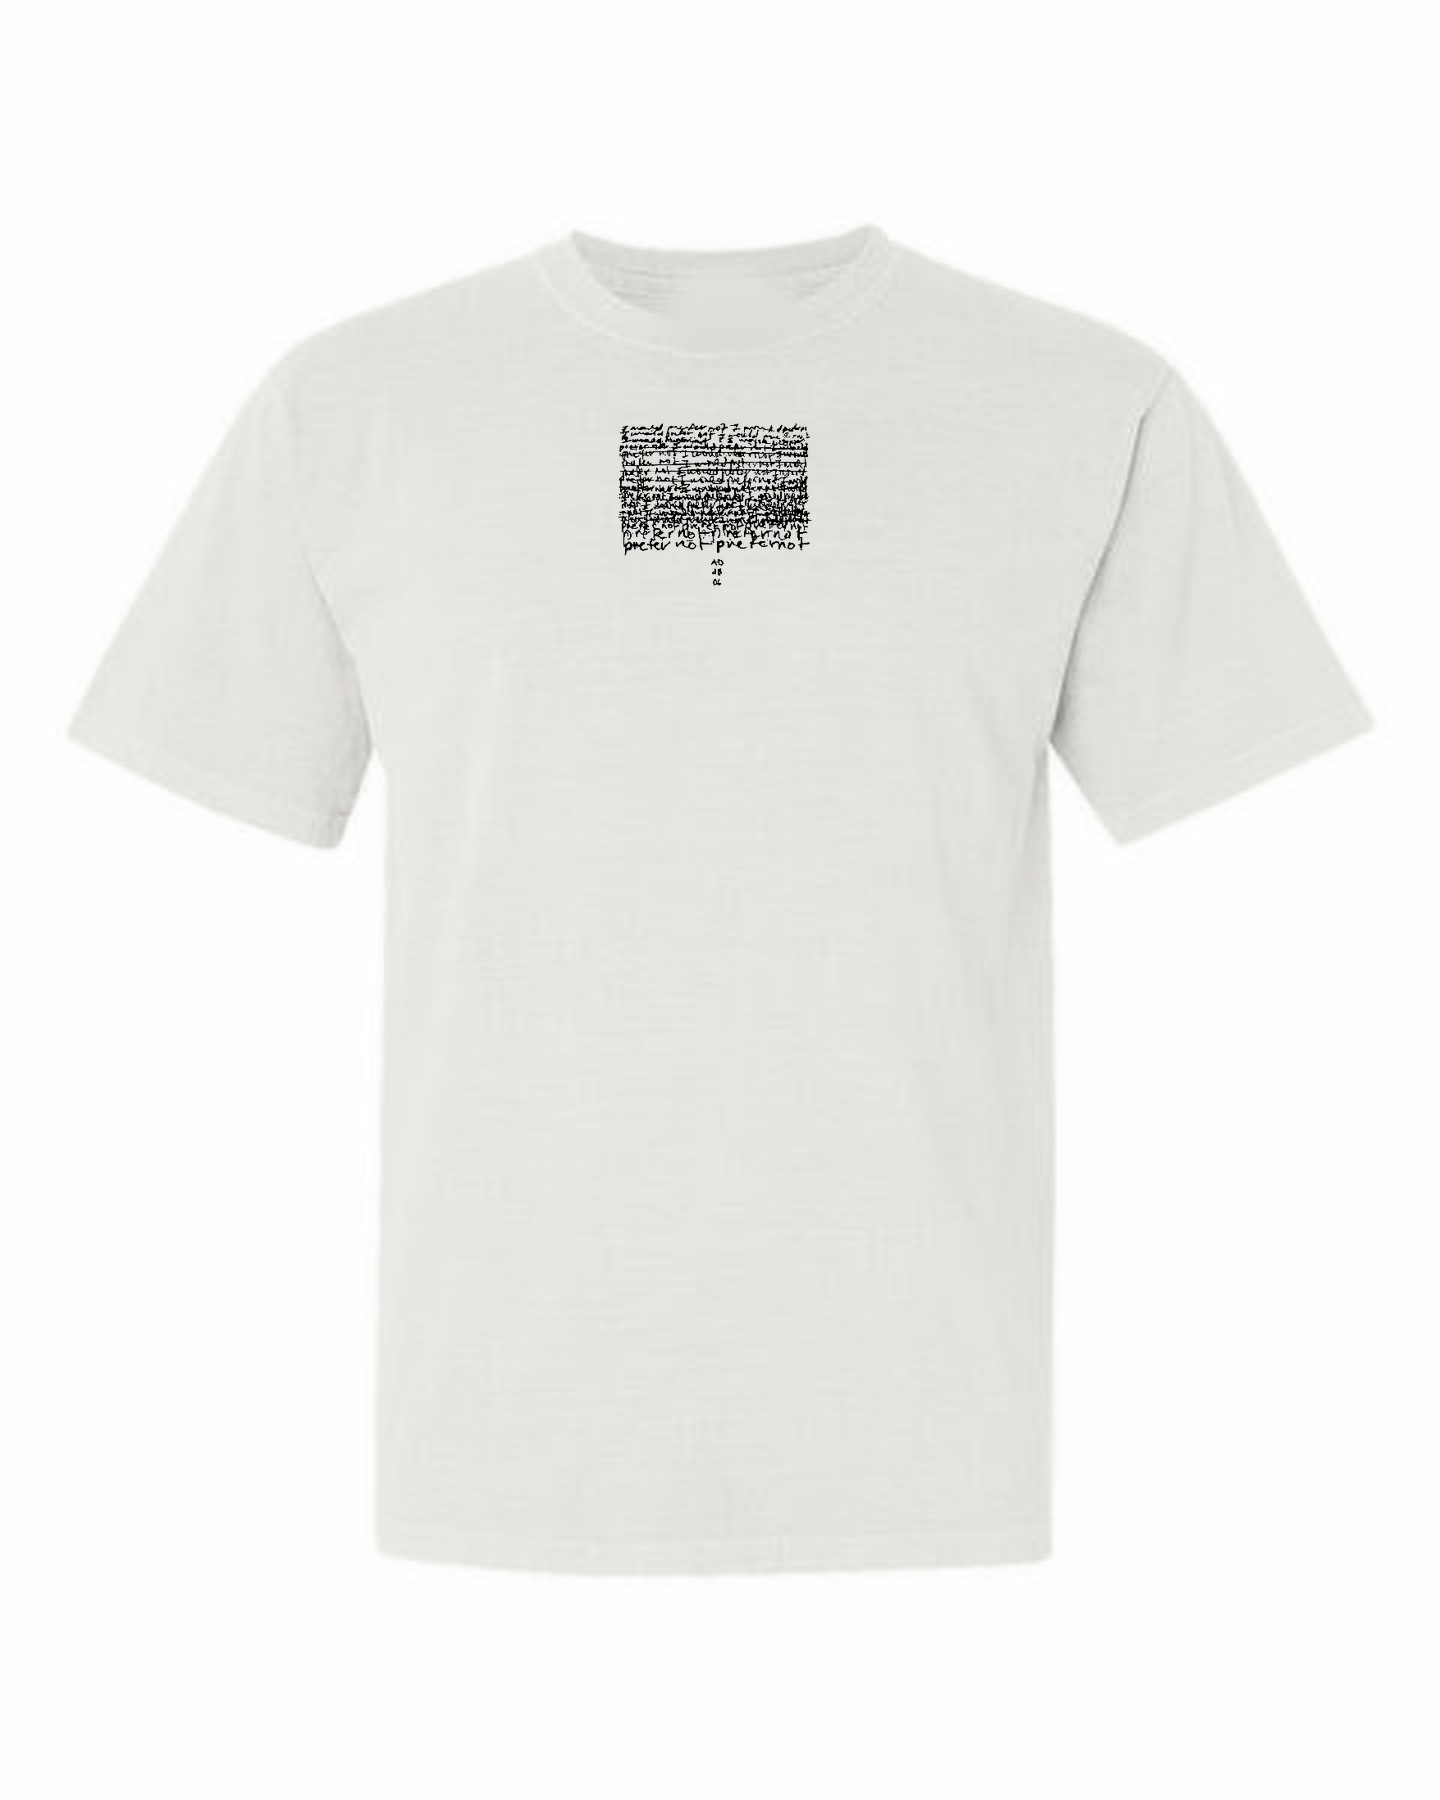
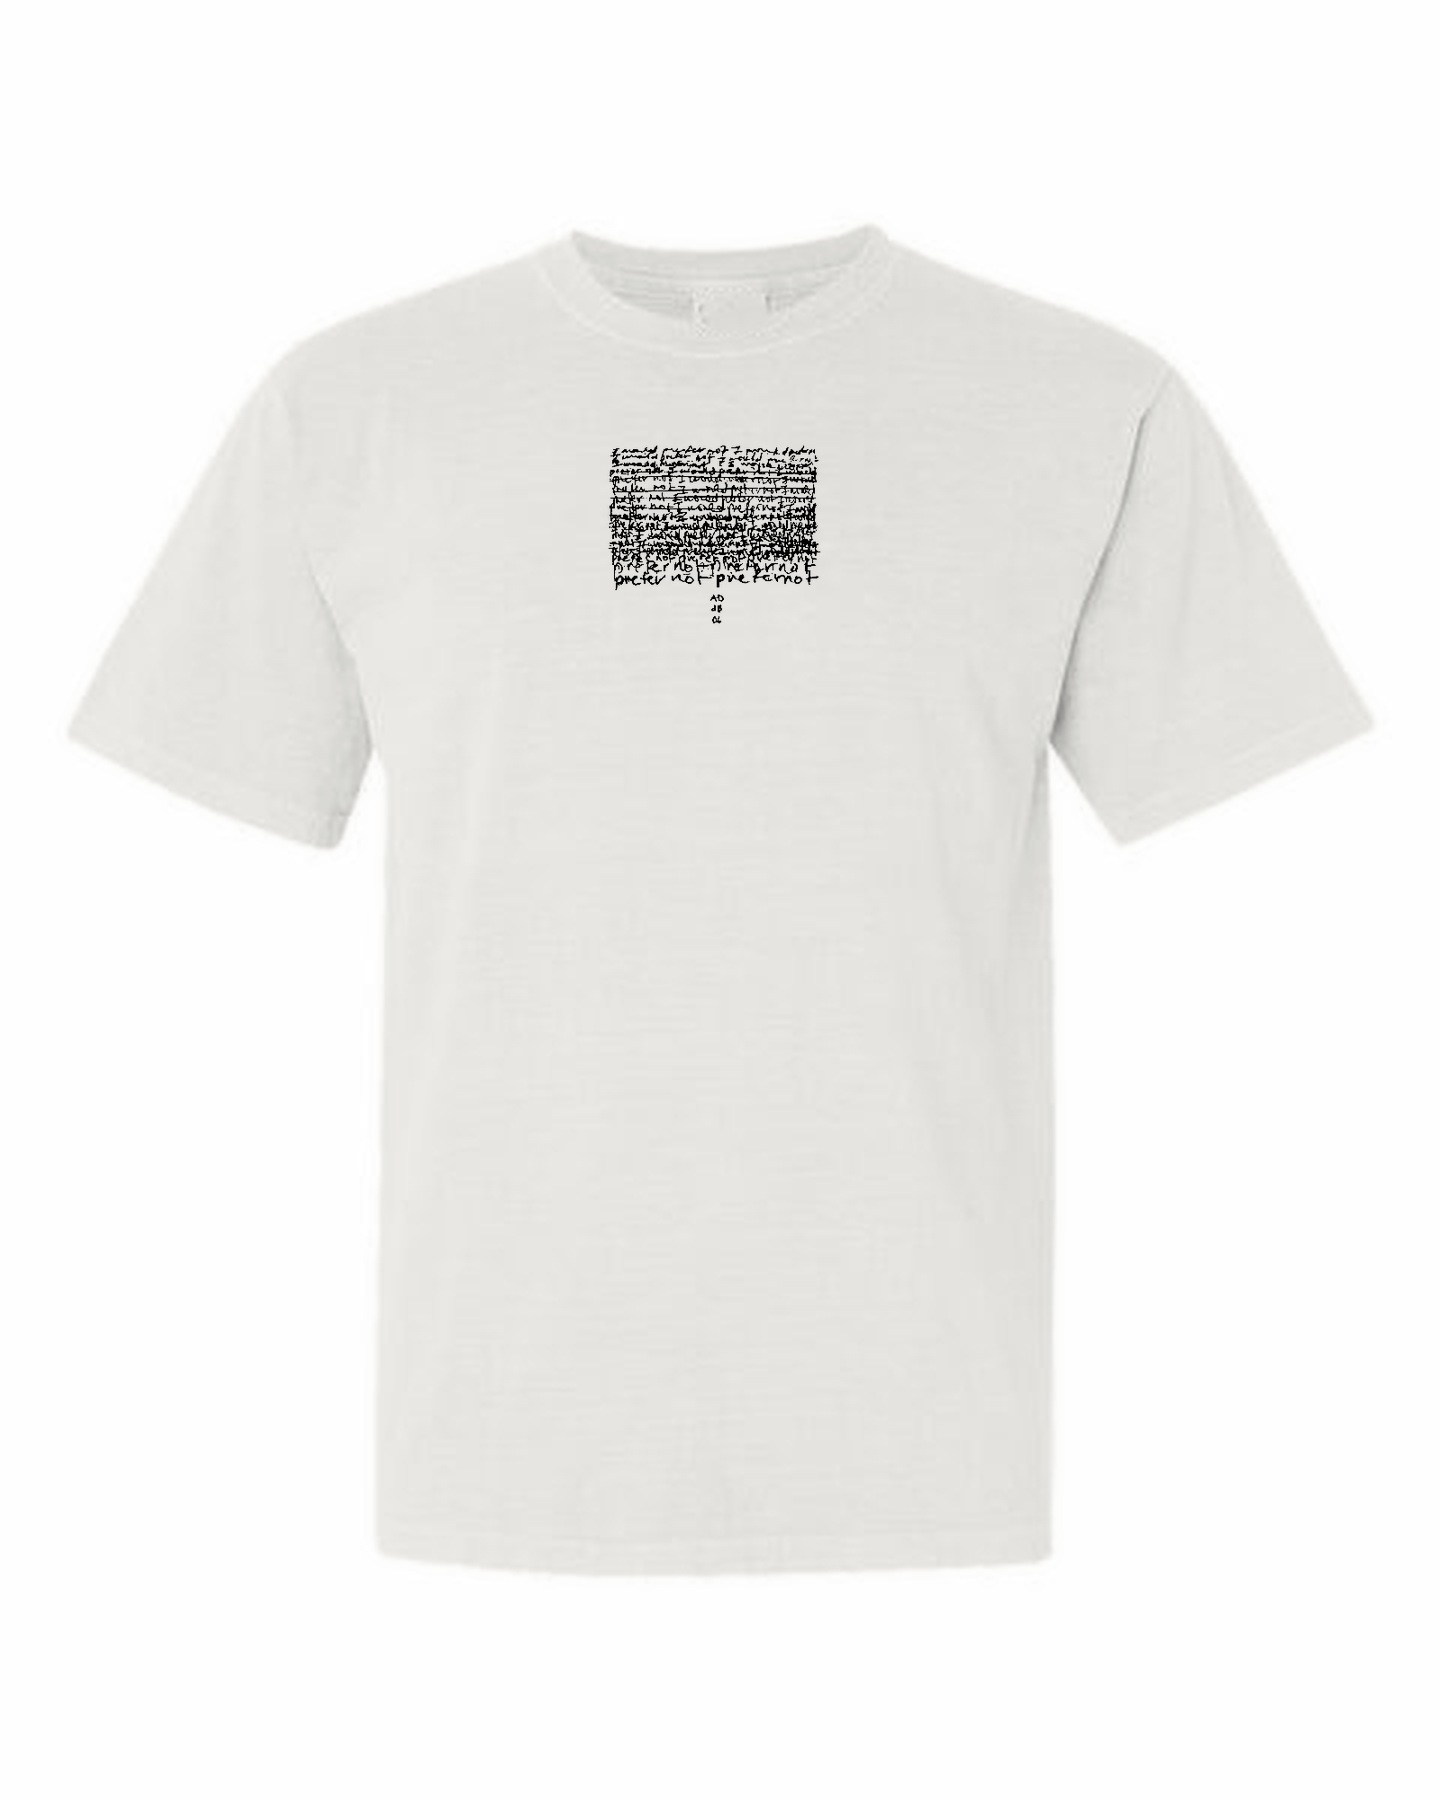
Enlarge and lower I Prefer Not graphic; improve tag erasure
- Graphic sized up further and shifted down per feedback
- Replace blur-based tag erasure (which read as a visibly blurry
  smudge) with a horizontally-shifted clone of clean adjacent fabric,
  brightness-matched to the surrounding area -- text is fully gone
  and texture is preserved, though a faint patch is still visible
  under heavy zoom
- Bump cache-bust param so the update actually reaches clients
- Thistle description -> 'A work on paper, adapted for print.
  Silkscreen printed in NYC on 100% cotton blanks.'

Claude-Session: https://claude.ai/code/session_011RfQyXtfidjRftR8QCxCRj

Changed region(s): [[0.4062, 0.2178, 0.5938, 0.3422]]

diff --git a/annabel-daou-shirts.html b/annabel-daou-shirts.html
@@ -110,7 +110,7 @@
                 <div class="flex-grow">
                     <h3 class="font-serif-custom text-2xl md:text-3xl mb-3 text-center">"Thistle"</h3>
                     <p class="text-sm text-gray-500 font-light leading-relaxed mb-6">
-                    A paper artwork design, adapted for print. Silkscreen printed in NYC on 100% cotton blanks.
+                    A work on paper, adapted for print. Silkscreen printed in NYC on 100% cotton blanks.
                     </p>
                 </div>
                 <div class="flex items-center justify-between mt-auto border-t border-gray-200 pt-6">
@@ -127,7 +127,7 @@
             <!-- Shirt 2 -->
             <article class="flex flex-col">
                 <div class="aspect-[4/5] w-full img-placeholder mb-8">
-                      <img src="iprefernot-tee.jpg?v=20260709" alt="I Prefer Not t-shirt" class="w-full h-full object-contain cursor-zoom-in transition-transform duration-300 hover:scale-[1.02] zoomable-image" onerror="this.style.opacity='0'">
+                      <img src="iprefernot-tee.jpg?v=20260709b" alt="I Prefer Not t-shirt" class="w-full h-full object-contain cursor-zoom-in transition-transform duration-300 hover:scale-[1.02] zoomable-image" onerror="this.style.opacity='0'">
                 </div>
                 <div class="flex-grow">
                     <h3 class="font-serif-custom text-2xl md:text-3xl mb-3 text-center">"I Prefer Not"</h3>